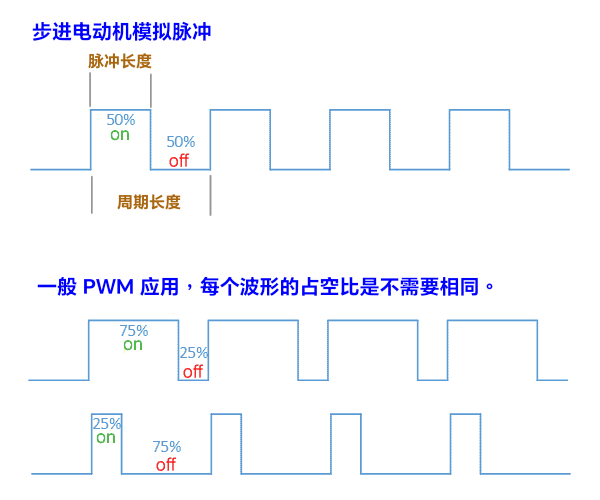
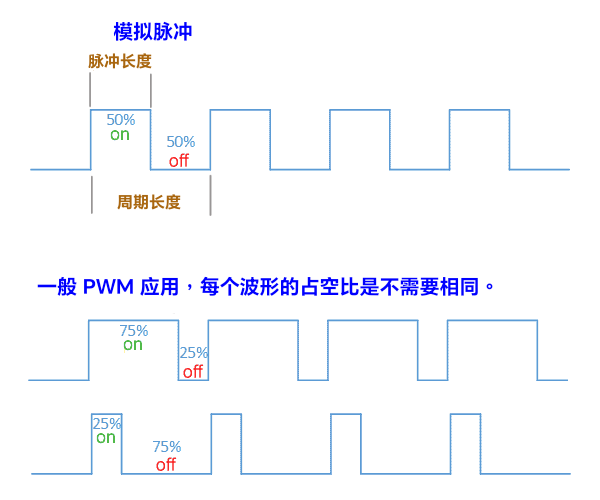
first commit

Changed region(s): [[0.06, 0.03, 0.36, 0.09]]

diff --git a/_posts/2024-09-10-RMT.md b/_posts/2024-09-10-RMT.md
@@ -37,49 +37,12 @@ ESP32 模组中有个 RMT 类别可以扩展为多功能通用收发器，发送
 
 由於 RMT 有 **8** 個通道, 所以就等於有 **8** 個可隨意自訂頻率的 PWM 可以使用。
 
-## 时脉除频器
 
-时脉除频器 (clock divider)，决定 RMT 发射器产生的脉冲长度范围或接收器的判别。通过设置 clk_div 为 **1** 至 **255** 范围内的一个值来选择。RMT 的源时钟通常为APB CLK，默认为 **80Mhz**。
+## 脉冲模拟
 
-注意，由于 RMT 选择的时钟分频器不同。因此每一個时间刻度为:
+用 RMT 来设计 PWM 模拟所需要的脉冲信号。
 
-$$
-一脉冲长度 = \frac {1s} {80MH_z} \times {时脉除频器_{[1..255]}} \\ = 0.0125 \mu s \approx  3.1875 \mu s
-$$
-
-注预设指定交替高低电位的持续脉冲长度最長为 **0~32767**。
-
-## RMT 可制作的频率区间
-
-如果要模拟脉冲在步进电动机。一周期为一开一关，需要两个脉冲长度。
-
-$$
-一周期长度 = 2 \times 32767 \times \frac {1 \mu s} {80} \times {时脉除频器_{[1..255]}} \\ = 819.175 \mu s \approx  208889.625 \mu s
-$$
-
-最慢的频率区间
-
-$$
-最慢的频率_{[1..255]} = \frac {80,000,000} {65534 \times 时脉除频器_{[1..255]}} \\
-最低频率带宽_{[1..255]} = 1.221 kH_z \approx \color{red}{4.787} H_z
-$$
-
-$$
-最快的频率_{[1..255]} = \frac {80,000,000} {2 \times 时脉除频器_{[1..255]}} \\
-最高频率带宽_{[1..255]} = \color{red}{40} MH_z \approx 156.286 kH_z
-$$
-
-即远程控制收发器的频率带宽为：
-
-$$
-频率带宽 = \color{red}{40} MH_z \approx \color{red}{4.787} H_z
-$$
-
-## 步进电动机模拟脉冲
-
-用 RMT 来设计 PWM 模拟步进电动机所需要的脉冲信号。
-
-- 製作 **1000** Hz 即 **1000** PPS 的信号源, 可以计算出周期为：
+- 製作 **1000** Hz 的信号源, 可以计算出周期为：
 
 $$
 \frac {1}{H_z} = \frac {1s}{1000} = 1000 \mu s,
@@ -91,19 +54,12 @@ $$
 \frac {1000\mu s}{2} = 500 \mu s
 $$
 
-为高电平与低电平各自持续的时间。
+为高电平与低电平各自持续的时间。如设计为一微妙作时间单位即为 **500** 个单位。
 
-根据以上公式。如时脉除频器设为**200**。即好下
-
-$$
-一脉冲长度 = \frac {1 \mu s} {80} \times {200} \\ = 2.5 \mu s
-$$
-
-所以步进电动机就需要 **200** 个脉冲长度正。再 **200** 个脉冲长度负的循环信号脉冲。
 
 ## 脉宽调变 (PWM)
 
-PWM (Pulse Width Modulation) 称为脉宽调变，它不是一种汇流排分析协定。主要是利用脉冲宽度之周期对类比电路进行控制的一种非常有效的技术，广泛应用在一些电源控制、转速控制、亮度控制和温度控制等。在电源控制方面，PWM 常被使用于调节电压或功率的应用。
+PWM (Pulse Width Modulation) 称为脉宽调变，它不是一种汇流排分析协定。主要是利用脉冲宽度之周期对类比电路进行控制的一种非常有效的技术，广泛应用在一些电源控制、转速控制、亮度控制和温度控制等。在电源控制方面，PWM 常被使用于调节电压或功率的应用。用软件模拟一个控制讯号再组合一组不同的模拟信号。组成控制信号。
 
 ![Alt rmt](../assets/img/esp/rmtwave.png)
 
@@ -134,7 +90,7 @@ struct 有四个字段：
 
 四个字段加起来是 **32** 位。val 的类型是 uint32 ，无符号32位整数。前面的结构体和 val 是不是大小相同。都是4个字节于是，它们用同一块内存，这个 **rmt_symbol_word_t** 可以用四个字段去设置它，也可以直接用一个整数去设置。C 语言是直接操作内存的，可以强制转换，在后面调用相关函数时，可以取地址直接赋值给 void* （指针）。
 
-这个以字叫 RMT 描述符号。一个符号字只描述**一个周期的脉冲**。<font color="#FF1000">发送多少個不同组合的脉冲周期，就形成不同的讯息组合</font>。
+这个以字叫 RMT 描述符号。一个符号字只描述**一个周期的脉冲**。<font color="#FF1000">发送多少個不同组合的脉冲周期，就形成不同的控制脉冲组合</font>。
 
 ## 通信设备开发流程
 
@@ -291,6 +247,8 @@ esp_err_t rmt_new_copy_encoder(const rmt_copy_encoder_config_t *config,
 
 ## 步进电动机例子
 
+调用 API 时，可以嵌套在 **ESP_ERROR_CHECK** 宏中，它会自动检查调用是否成功，不成功會输出错误。但为了简洁程序在此省略。
+
 ### 声明相关参数
 
 ```c
@@ -317,7 +275,7 @@ $$
 
 步進电机在 500 PPS 至2000 PPS 即 20000 us - 500 us 之间。
 
-<font color="#FF1000">把 **tick** 精确设在 1 us 已足够控制所有设计工作。</font>
+<font color="#FF1000">把 **tick** 精确设在 **1** us 已足够设计大部份的需要工作。</font>
 
 ### 声明全局变量
 
@@ -365,8 +323,6 @@ void init_encoder()
   rmt_new_copy_encoder(&cfg, &rfEncoder);
 }
 ```
-
-调用 API 时，可以嵌套在 **ESP_ERROR_CHECK** 宏中，它会自动检查调用是否成功，不成功會输出错误。但为了简洁程序在此省略。
 
 下面代码发送数据。
 
